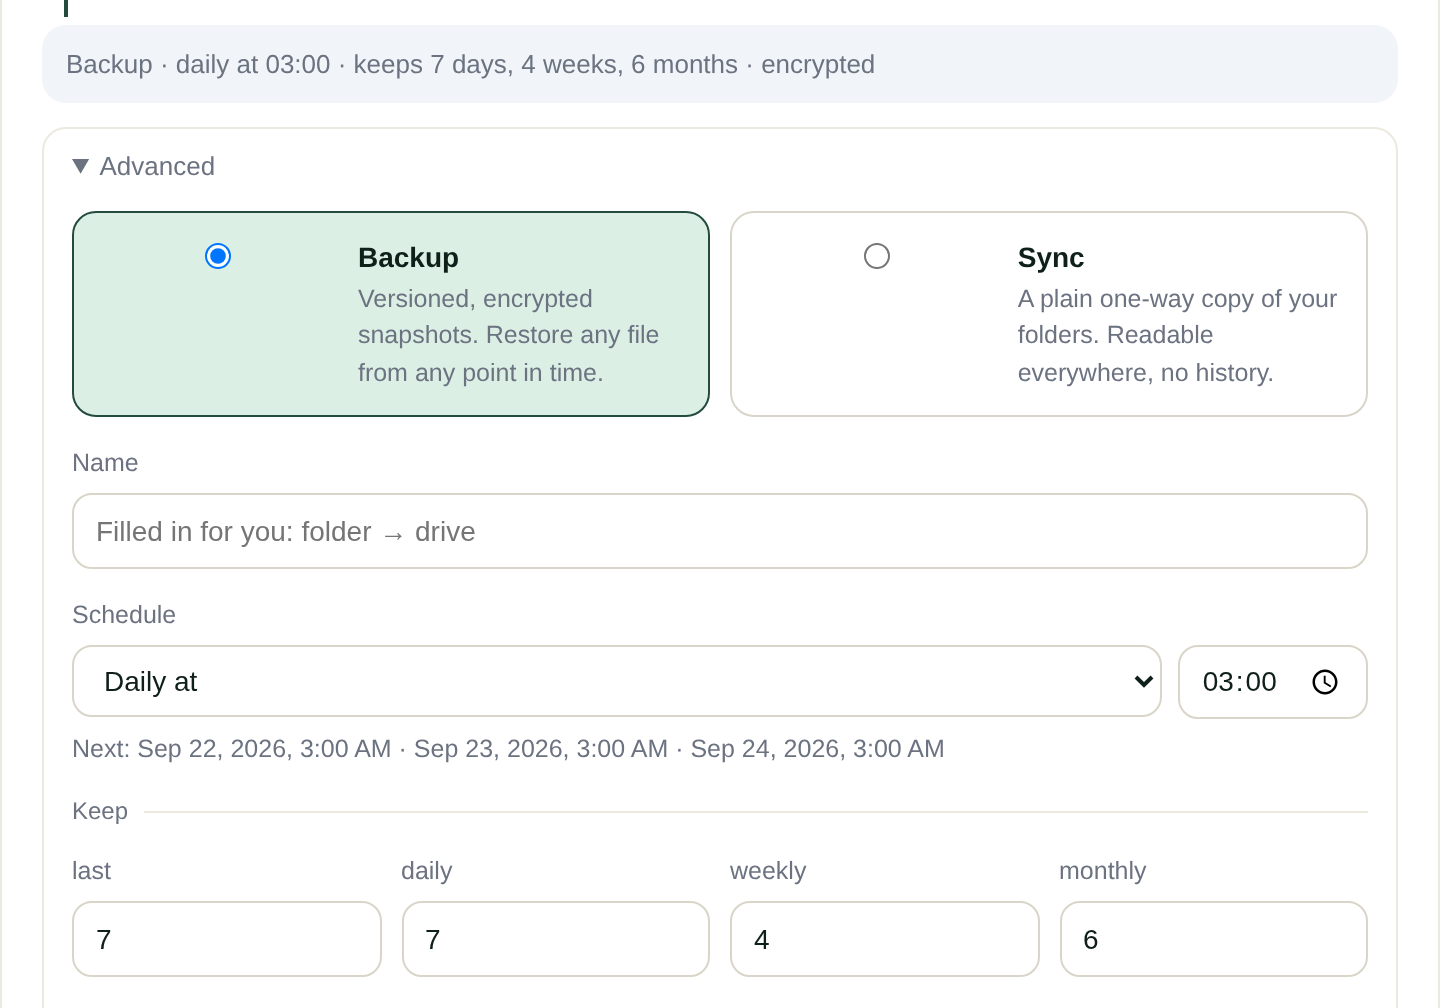
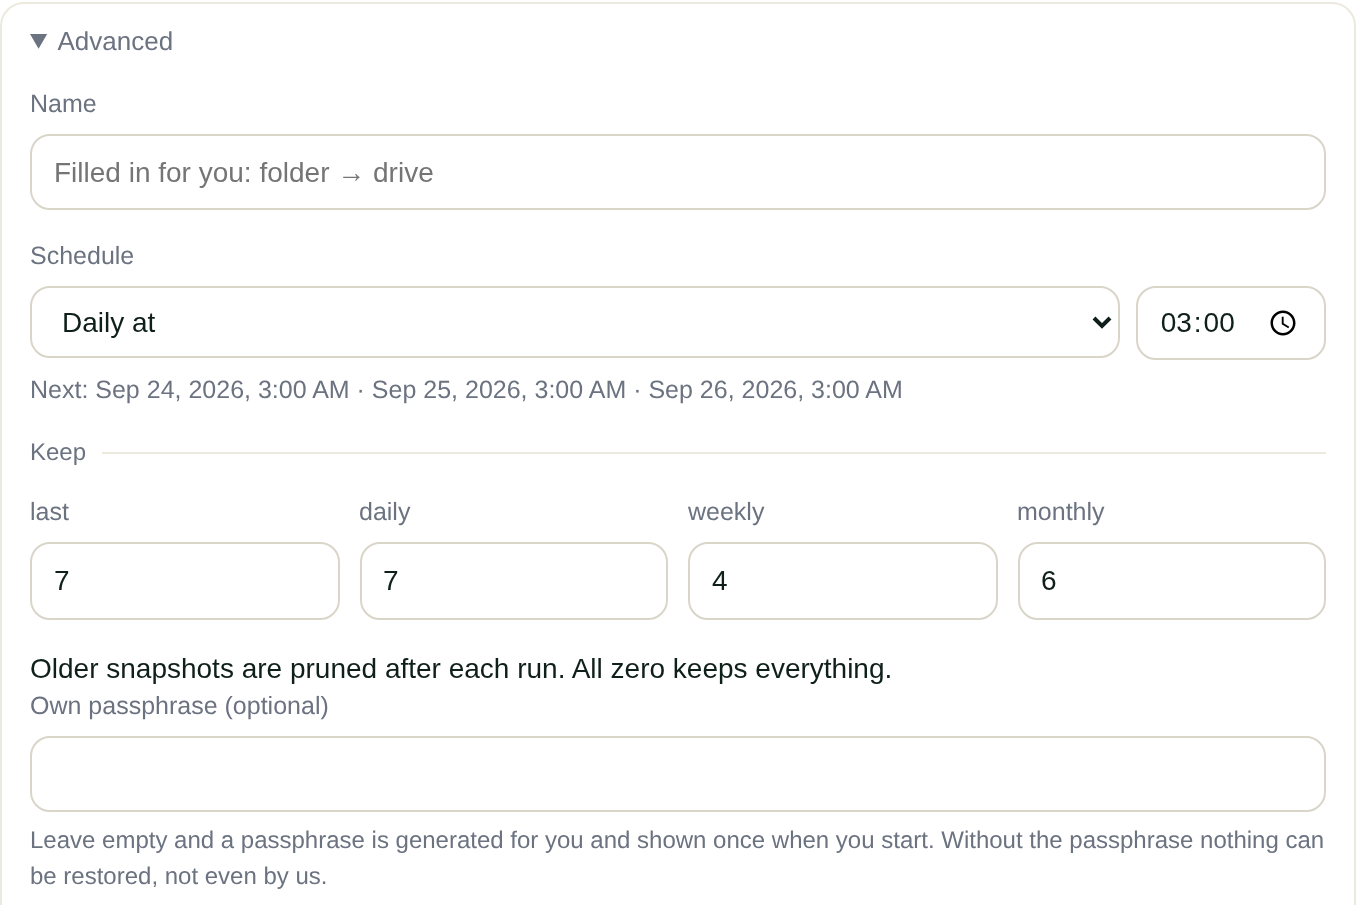
docs: where the kind is chosen — text, screenshots, and a HowTo chapter for the system backup
Moving the cards made five sentences wrong at once, in two documents:
README "Advanced … backup or sync" and "sync instead of backup", HOWTO's
Advanced list item "Backup or Sync (see §4)" and "open **Advanced** and
choose **Sync**", plus both image alt texts. All of them now say where
the choice actually is.

Both screenshots re-shot against the running module (0.3.0-dev7, English,
2x): new-backup.png shows the three cards above step 1, advanced.png the
section without them. The demo folders behind the chips (24 files · 4.8
MiB, 12 files · 696.1 KiB) were created for the shot and removed again;
no job was created.

And a gap the review made visible: the HowTo did not mention the system
backup at all. New §10 "Backing up the Zima itself" — what it holds, the
passphrase belonging off the box, restore on the same box, the version
warning, bare metal — with the figures we measured. The old §10 is §11;
nothing referred to it.

diff --git a/HOWTO.md b/HOWTO.md
@@ -73,9 +73,12 @@ remove/install and a reboot.
 ## 2. Your first backup — a folder to a USB disk
 
 Plug in the disk and let ZimaOS mount it (it appears under *Storage*).
-Then open the tile and click **New backup**. One screen, two questions:
+Then open the tile and click **New backup**. One screen, two questions —
+and three cards above them that say what kind of job this is: **Backup**
+(versioned, encrypted), **Sync** (a plain copy) and **System** (the Zima
+itself). *Backup* is preselected; for your first backup, leave it.
 
-![New backup: what do you want to protect, where should it go, Start](docs/img/new-backup.png)
+![New backup: the cards Backup / Sync / System, then what do you want to protect, where should it go, Start](docs/img/new-backup.png)
 
 ### 1 — What do you want to protect?
 
@@ -143,9 +146,8 @@ The first run sends everything. Every later run sends only what changed
 
 ### Advanced — when the default is not what you want
 
-![Advanced: Backup or Sync, name, schedule in words, keep](docs/img/advanced.png)
+![Advanced: name, schedule in words, keep, own passphrase](docs/img/advanced.png)
 
-- **Backup or Sync** (see §4).
 - **Name** — filled in for you as *folder → drive*.
 - **Schedule** in words: *Daily at 03:00*, *Weekly on Sunday at 03:00*,
   *Monthly on day 1*, *Every hour at minute 0*, *Every 20 minutes*,
@@ -198,7 +200,7 @@ ownership could not be set (those filesystems have none).
 
 ## 4. Mirroring a folder to a second disk (Sync)
 
-Same dialog; open **Advanced** and choose **Sync**. Differences:
+Same dialog; pick the **Sync** card at the top. Differences:
 
 - No passphrase — the target is a plain copy.
 - Each source folder lands as `<target>/<folder name>`: `/DATA/Photos`
@@ -367,7 +369,54 @@ kernel mount.
 
 ---
 
-## 10. Where things live, and uninstalling
+## 10. Backing up the Zima itself
+
+The third card in *New backup* is **System**. It protects what makes this
+box *this* box: the settings in `/etc` (network, users, hostname, SSH
+keys), the ZimaOS state (apps, users, app store, file service), the
+installed modules and the app data in `/DATA/AppData` — plus a manifest
+with the ZimaOS version, the app list and the image digests, and
+consistent copies of the six SQLite databases. Not the operating system
+itself: ZimaOS comes from IceWhale's installer, docker images are pulled
+again from the registry.
+
+**Making one.** *New backup* → the **System** card → pick a drive →
+**Start**. There is nothing to choose under *what*; the list on the left
+says what goes in. Under *Advanced*, **Also my files: the whole /DATA**
+adds every folder on the data disk. Measured on a box with 19 apps: 85.8
+GiB in 315 s, the next run 8 MiB in 10 s.
+
+Write the passphrase down and keep it **off this box**. After a
+reinstall the job list is gone; without the passphrase the repository is
+a wall.
+
+**Putting it back on the same box.** **Restore system** on the row shows
+what is in the snapshot — *Taken on ZimaOS*, *Hostname then*, *Apps*,
+*Databases* — and wants the word RESTORE. It stops the ZimaOS services
+and every container, writes `/etc` back, replaces the state directories
+and the app data, checks every database, starts the containers again and
+asks for a reboot. Measured on 1.7.1 with 22 compose projects: about ten
+minutes restic, one minute to apply, `41 started, 0 failed`; after the
+reboot the same 41 containers and the same tiles. Sign in again
+afterwards — the restore invalidates the sessions.
+
+Comes the snapshot from a different ZimaOS version, the dialog says so
+(*This snapshot was taken on ZimaOS v1.7.0; this box runs v1.7.1…*) and
+the button stays locked until you tick **Restore anyway (other ZimaOS
+version)**.
+
+**Bare metal — a new box, or a wiped one.** Install the same ZimaOS
+version from IceWhale's installer, install this module, create a System
+job that points at the drive with the repository and carries the same
+passphrase, then **Restore system** on it. A box with no containers yet
+brings every app up from its compose file, which is what puts the tiles
+back. Measured end to end on a fresh ZimaOS 1.7.1 in a VM: app, tile and
+data were gone, the restore took 30 s, and after the reboot all three
+were there again.
+
+---
+
+## 11. Where things live, and uninstalling
 
 ```
 /DATA/AppData/zbackup/

diff --git a/README.md b/README.md
@@ -21,14 +21,15 @@ written.
 
 <table>
 <tr>
-<td><img src="docs/img/new-backup.png" alt="New backup: 1 What do you want to protect? — folder chips with file count and size; 2 Where should it go? — drive cards in three groups: drives in this box, network shares, cloud drives; the plan in one line; Start" width="420"></td>
+<td><img src="docs/img/new-backup.png" alt="New backup: three cards at the top — Backup, Sync, System; 1 What do you want to protect? — folder chips with file count and size; 2 Where should it go? — drive cards in three groups: drives in this box, network shares, cloud drives; the plan in one line; Start" width="420"></td>
 <td><img src="docs/img/passphrase.png" alt="Your passphrase: seven words, numbered; Copy, Print / save as PDF; a checkbox 'I have written the passphrase down' unlocks Create backup" width="420"></td>
 </tr>
 </table>
 
-The one line above *Advanced* says what will happen — *Backup · daily at
-03:00 · keeps 7 days, 4 weeks, 6 months · encrypted* — and *Advanced* is
-where you change it: backup or sync, name, the schedule in words (daily
+The kind stands at the head of the dialog — *Backup*, *Sync* or *System*,
+one card each. The one line above *Advanced* says what will happen —
+*Backup · daily at 03:00 · keeps 7 days, 4 weeks, 6 months · encrypted* —
+and *Advanced* is where you change it: name, the schedule in words (daily
 at, weekly on, monthly on day, every hour, every N minutes, cron for
 experts), what to keep, your own passphrase, excludes, timeout,
 notifications, and the direct targets for experts (SSH, SFTP, SMB, S3).
@@ -36,7 +37,7 @@ notifications, and the direct targets for experts (SSH, SFTP, SMB, S3).
 <table>
 <tr>
 <td><img src="docs/img/folder-picker.png" alt="Choose a folder: every disk, network share and cloud drive at the top level, named as ZimaOS names them" width="420"></td>
-<td><img src="docs/img/advanced.png" alt="Advanced: Backup or Sync, name, schedule 'Daily at 03:00' with the next three runs, keep last/daily/weekly/monthly" width="420"></td>
+<td><img src="docs/img/advanced.png" alt="Advanced: name, schedule 'Daily at 03:00' with the next three runs, keep last/daily/weekly/monthly, own passphrase" width="420"></td>
 </tr>
 </table>
 
@@ -110,7 +111,7 @@ apps, users, app store, file service) and the installed modules — plus
 and module names; no secrets) and consistent copies of the six SQLite
 databases. Docker images are not included; they are pulled again.
 
-*New backup → Advanced → System → pick a drive → Start.* Measured on a
+*New backup → System → pick a drive → Start.* Measured on a
 box with 19 apps: 85.8 GiB in 315 s to the system disk, the second run
 8 MiB in 10 s. *Also my files* under Advanced adds the whole `/DATA`.
 
@@ -130,7 +131,7 @@ the reboot the same 41 containers, the same tiles, databases `ok`.
 
 **Bare metal**: install the same ZimaOS version from IceWhale's installer,
 install this module, add the drive with the repository and the passphrase
-(*New backup → Advanced → System*, same target, own passphrase), then
+(*New backup → System*, same target, own passphrase), then
 *Restore system*. A box with no containers yet brings every app up from its
 compose file, which is what puts the tiles back. Measured end to end on a
 fresh ZimaOS 1.7.1 in a VM: an app, its tile and its data in `/DATA/AppData`
@@ -171,9 +172,9 @@ words where the words fit, and as the expression where they do not.
    down or print it, tick the box, **Create backup** — and runs right
    away. A sync opens its preview instead.
 
-*Advanced* holds everything else: sync instead of backup, name, schedule,
-retention, own passphrase, excludes, timeout, notifications, and the
-direct targets for experts. For SSH/SFTP the module shows its public key;
+*Advanced* holds everything else: name, schedule, retention, own
+passphrase, excludes, timeout, notifications, and the direct targets for
+experts. (Backup, sync or system is the choice at the top of the dialog.) For SSH/SFTP the module shows its public key;
 paste it into `~/.ssh/authorized_keys` of the user on the target.
 
 **Restore** on a backup row lists the snapshots; pick files or folders in

diff --git a/CHANGELOG.md b/CHANGELOG.md
@@ -3,7 +3,8 @@
 ## 0.3.0 — unreleased
 
 ### Added
-- **System backup**: a third kind next to Backup and Sync. One click backs
+- **System backup**: a third kind next to Backup and Sync, and the three now
+  stand at the head of the *New backup* dialog instead of inside *Advanced*. One click backs
   up what makes the box *this* box — the `/etc` overlay (network, users,
   hostname, SSH keys), the ZimaOS state (apps, users, app store, file
   service), the installed modules and `/DATA/AppData`; optionally all of
